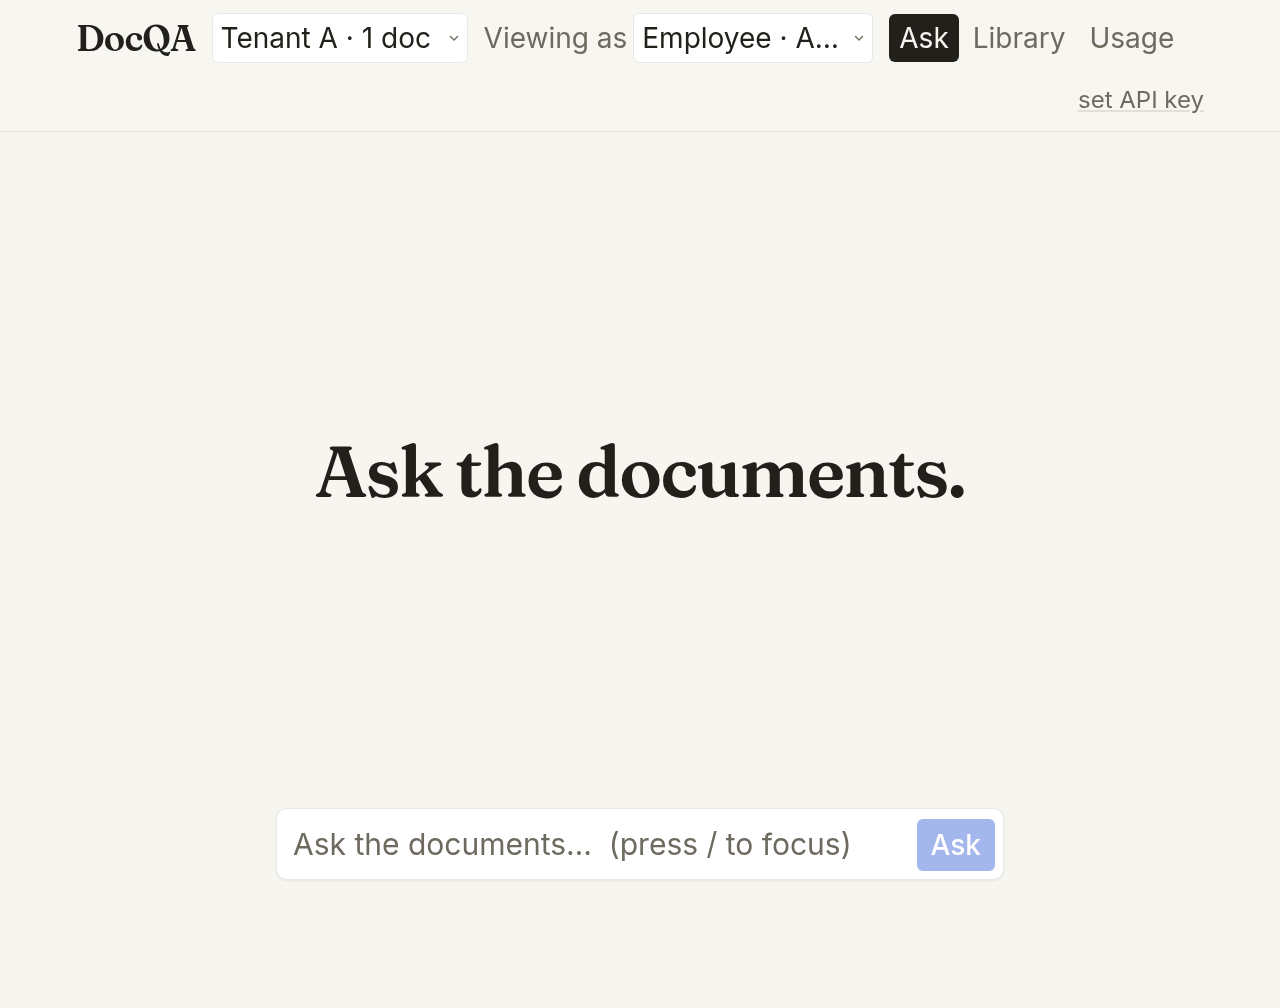
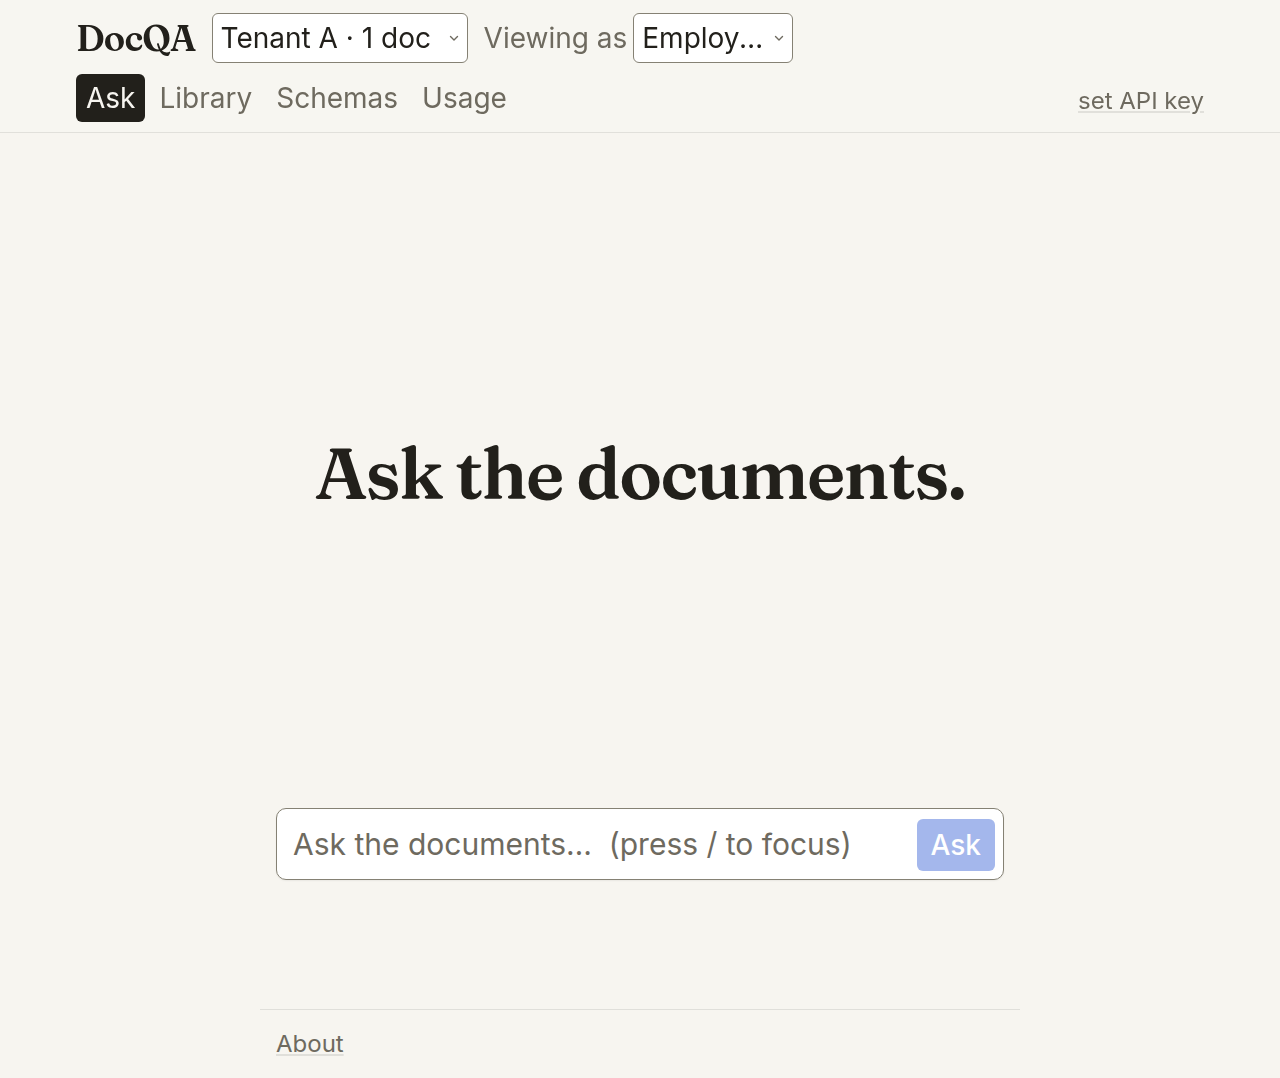
test(ui): dropzone hint now names scans and photos
Claude-Session: https://claude.ai/code/session_012h8YiVao5AUM5Ya1hawjst

diff --git a/eval/results_ocr.md b/eval/results_ocr.md
@@ -4,8 +4,8 @@
 
 | Variant | Pages | Word error rate (mean / median) | Heading recall | Mean confidence | s / page |
 |---|---|---|---|---|---|
-| scan | 19 | 0.002 / 0.000 | 0.99 | 95.2 | 3.3 |
-| skewed | 19 | 0.083 / 0.000 | 0.83 | 92.1 | 7.8 |
-| photo | 19 | 0.004 / 0.000 | 0.98 | 95.2 | 4.5 |
+| scan | 19 | 0.002 / 0.000 | 0.99 | 95.2 | 5.1 |
+| skewed | 19 | 0.038 / 0.000 | 0.88 | 92.7 | 8.5 |
+| photo | 19 | 0.004 / 0.000 | 0.98 | 95.2 | 6.8 |
 
 Word error rate = word-level edit distance between the typeset words and the recognised text, divided by the typeset word count (punctuation and case ignored). Heading recall = typeset headings that the line-height heuristic turned into section headings.
